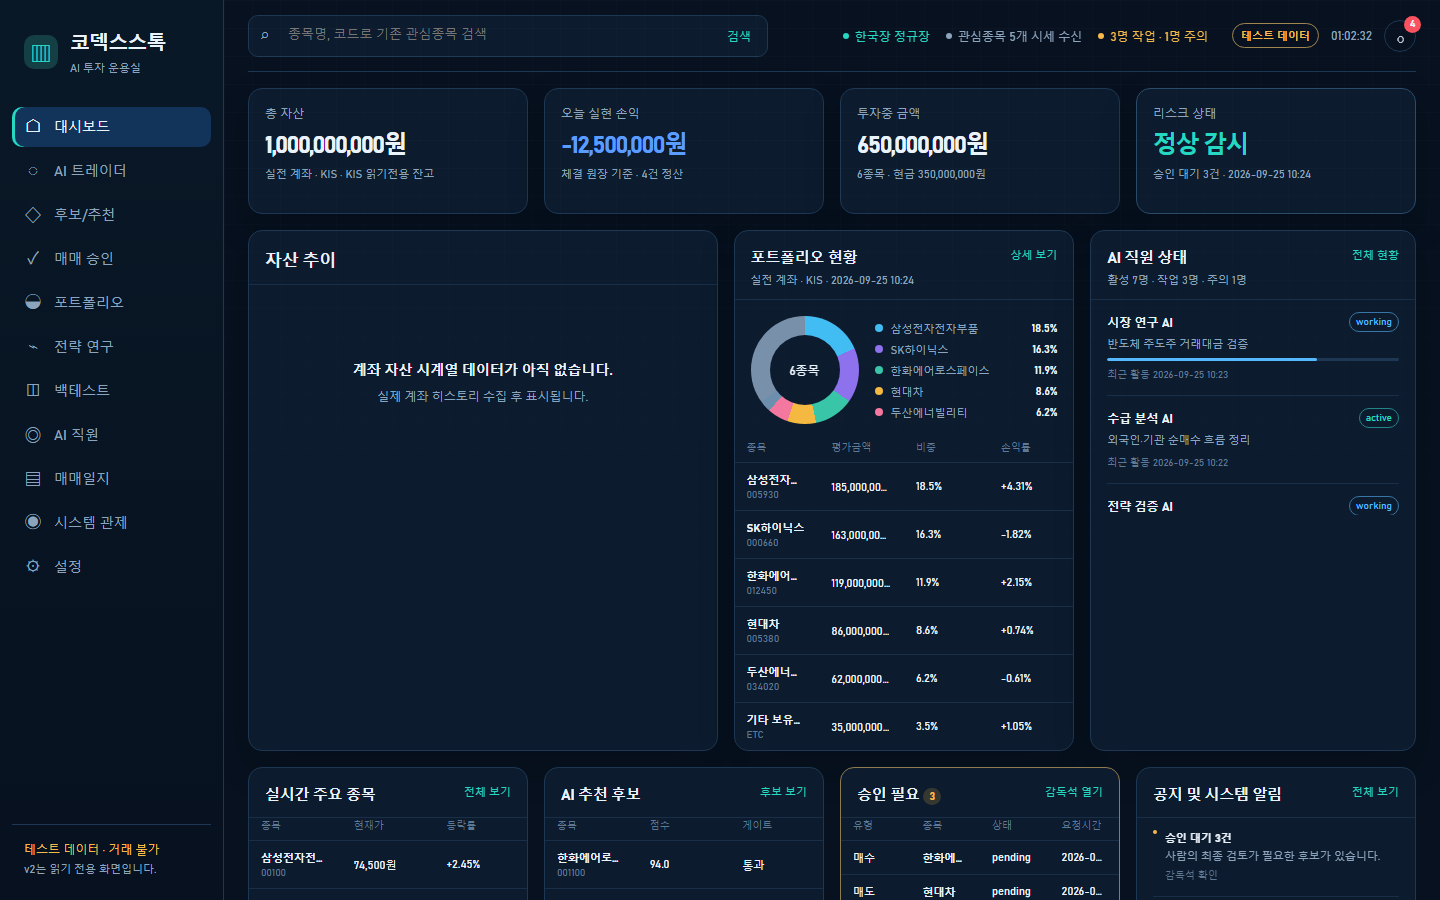
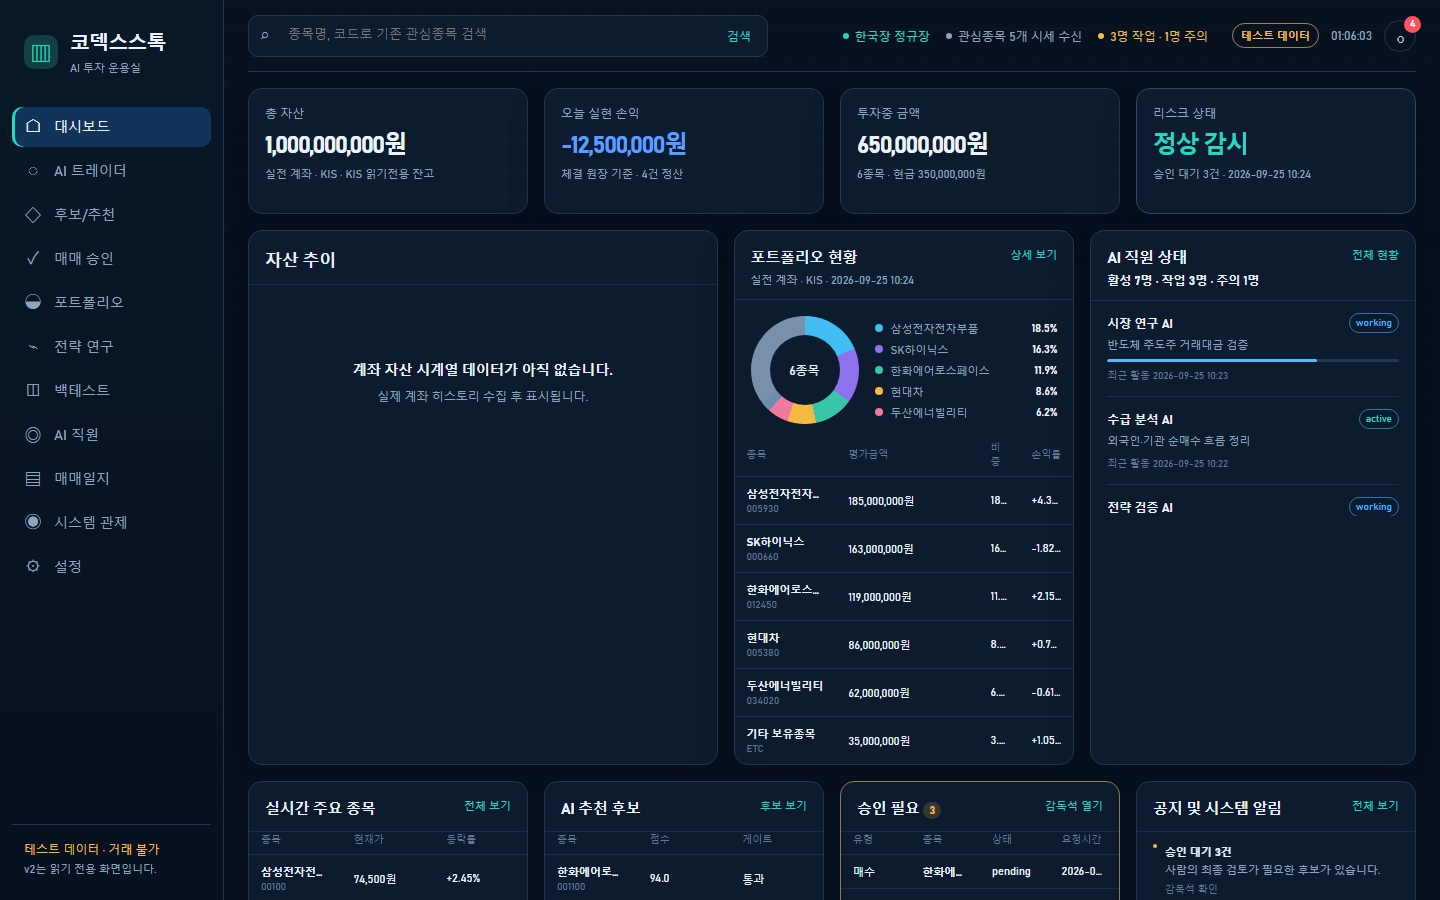
Harden dashboard visual fixture QA

diff --git a/app/web/ui-v2/dashboard.css b/app/web/ui-v2/dashboard.css
@@ -54,6 +54,7 @@ body[data-ui-v2="true"] *, body[data-ui-v2="true"] *::before, body[data-ui-v2="t
 .v2-section-head h1, .v2-section-head h2 { margin: 0; color: var(--v2-text); font-size: 15px; letter-spacing: -0.02em; }
 .v2-section-head h1 { font-size: 17px; }
 .v2-section-head p { margin: var(--v2-space-1) 0 0; color: var(--v2-muted); font-size: 11px; }
+.v2-staff-card [data-v2="staffMeta"] { color: var(--v2-text); font-size: 12px; font-weight: 650; }
 .v2-link { padding: 0; font-size: 11px; white-space: nowrap; }
 .v2-link:hover, .v2-link:focus-visible { color: var(--v2-text); outline: none; text-decoration: underline; }
 
@@ -77,6 +78,10 @@ body[data-ui-v2="true"] *, body[data-ui-v2="true"] *::before, body[data-ui-v2="t
 .v2-table th { padding: 0 var(--v2-space-3) var(--v2-space-2); color: var(--v2-subtle); text-align: left; font-size: 10px; font-weight: 500; }
 .v2-table td { padding: 9px var(--v2-space-3); border-top: 1px solid color-mix(in srgb, var(--v2-border) 72%, transparent); color: var(--v2-text); font-size: 11px; overflow: hidden; text-overflow: ellipsis; white-space: nowrap; }
 .v2-table td:first-child { width: 40%; }
+.v2-portfolio-table th:nth-child(1), .v2-portfolio-table td:nth-child(1) { width: 33%; }
+.v2-portfolio-table th:nth-child(2), .v2-portfolio-table td:nth-child(2) { width: 36%; }
+.v2-portfolio-table th:nth-child(3), .v2-portfolio-table td:nth-child(3) { width: 14%; }
+.v2-portfolio-table th:nth-child(4), .v2-portfolio-table td:nth-child(4) { width: 17%; }
 .v2-table td strong, .v2-table td small { display: block; overflow: hidden; text-overflow: ellipsis; }
 .v2-table td small { margin-top: 2px; color: var(--v2-subtle); font-size: 10px; }
 .v2-empty-cell { color: var(--v2-muted) !important; text-align: center; white-space: normal !important; }
@@ -110,5 +115,6 @@ body[data-ui-v2="true"] *, body[data-ui-v2="true"] *::before, body[data-ui-v2="t
 .v2-alert strong { display: block; color: var(--v2-text); font-size: 11px; }.v2-alert p { margin: 4px 0; color: var(--v2-muted); font-size: 11px; line-height: 1.38; }.v2-alert small { color: var(--v2-subtle); font-size: 10px; }
 
 @media (max-width: 1320px) { .v2-operations-grid { grid-template-columns: repeat(3, minmax(0, 1fr)); } .v2-header-status { gap: var(--v2-space-3); } }
+@media (max-width: 1500px) and (min-width: 1181px) { .v2-portfolio-table th:nth-child(1), .v2-portfolio-table td:nth-child(1) { width: 30%; }.v2-portfolio-table th:nth-child(2), .v2-portfolio-table td:nth-child(2) { width: 42%; }.v2-portfolio-table th:nth-child(3), .v2-portfolio-table td:nth-child(3) { width: 12%; }.v2-portfolio-table th:nth-child(4), .v2-portfolio-table td:nth-child(4) { width: 16%; } }
 @media (max-width: 1180px) { .v2-shell { grid-template-columns: minmax(0, 1fr); }.v2-sidebar { min-width: 0; position: static; height: auto; padding: var(--v2-space-3); border-right: 0; border-bottom: 1px solid var(--v2-border); }.v2-brand, .v2-sidebar-foot { display: none; }.v2-nav { display: flex; min-width: 0; width: 100%; max-width: 100%; overflow-x: auto; }.v2-nav button { width: auto; flex: 0 0 auto; }.v2-main { padding: 0 var(--v2-space-4) var(--v2-space-5); }.v2-topbar { grid-template-columns: minmax(260px, 1fr) auto; }.v2-header-status { display: none; }.v2-kpis { grid-template-columns: repeat(2, minmax(0, 1fr)); }.v2-primary-grid { grid-template-columns: minmax(0, 1fr); }.v2-staff-card { grid-column: auto; } }
 @media (max-width: 720px) { .v2-main { padding: 0 var(--v2-space-3) var(--v2-space-4); }.v2-topbar { grid-template-columns: 1fr auto; gap: var(--v2-space-2); }.v2-search button { display: none; }.v2-kpis, .v2-operations-grid, .v2-staff-list { grid-template-columns: 1fr; }.v2-kpi { min-height: 106px; }.v2-allocation { grid-template-columns: 92px minmax(0, 1fr); }.v2-donut { width: 92px; }.v2-donut::before { width: 60px; }.v2-table-scroll { overflow-x: auto; }.v2-table { min-width: 300px; } }

diff --git a/app/web/ui-v2/dashboard.js b/app/web/ui-v2/dashboard.js
@@ -44,7 +44,7 @@
       </aside>
       <main class="v2-main">
         <header class="v2-topbar">
-          <form class="v2-search" id="v2SearchForm" role="search"><span aria-hidden="true">${ICONS.search}</span><input id="v2SearchInput" autocomplete="off" placeholder="종목명, 코드로 기존 관심종목 검색" /><button type="submit">검색</button></form>
+          <form class="v2-search" id="v2SearchForm" role="search"><span aria-hidden="true">${ICONS.search}</span><input id="v2SearchInput" aria-label="종목명 또는 코드 검색" autocomplete="off" placeholder="종목명, 코드로 기존 관심종목 검색" /><button type="submit">검색</button></form>
           <div class="v2-header-status"><div data-v2="marketState" class="v2-header-item">시장 상태 조회 중</div><div data-v2="marketSummary" class="v2-header-item muted">시장 요약 대기</div><div data-v2="aiState" class="v2-header-item">AI 상태 조회 중</div></div>
           <div class="v2-header-tools"><span class="v2-fixture-badge" data-v2="fixtureBadge" hidden>테스트 데이터</span><time data-v2="clock">--:--:--</time><button type="button" class="v2-icon-button" data-v2-page="settings" aria-label="알림"><span aria-hidden="true">${ICONS.bell}</span><b data-v2="alertCount" hidden>0</b></button></div>
         </header>
@@ -56,7 +56,7 @@
         </section>
         <section class="v2-grid v2-primary-grid">
           <article class="v2-card v2-asset-card"><div class="v2-section-head"><div><h1>자산 추이</h1></div></div><div class="v2-empty-chart"><strong>계좌 자산 시계열 데이터가 아직 없습니다.</strong><span>실제 계좌 히스토리 수집 후 표시됩니다.</span></div></article>
-          <article class="v2-card v2-portfolio-card"><div class="v2-section-head"><div><h2>포트폴리오 현황</h2><p data-v2="portfolioMeta">계좌 데이터 대기</p></div><button class="v2-link" type="button" data-v2-page="trading">상세 보기</button></div><div class="v2-allocation"><div class="v2-donut" data-v2="donut"><span data-v2="positionCount">-</span></div><div class="v2-legend" data-v2="portfolioLegend"></div></div><div class="v2-table-scroll"><table class="v2-table"><thead><tr><th>종목</th><th>평가금액</th><th>비중</th><th>손익률</th></tr></thead><tbody data-v2="portfolioRows"></tbody></table></div></article>
+          <article class="v2-card v2-portfolio-card"><div class="v2-section-head"><div><h2>포트폴리오 현황</h2><p data-v2="portfolioMeta">계좌 데이터 대기</p></div><button class="v2-link" type="button" data-v2-page="trading">상세 보기</button></div><div class="v2-allocation"><div class="v2-donut" data-v2="donut"><span data-v2="positionCount">-</span></div><div class="v2-legend" data-v2="portfolioLegend"></div></div><div class="v2-table-scroll"><table class="v2-table v2-portfolio-table"><thead><tr><th>종목</th><th>평가금액</th><th>비중</th><th>손익률</th></tr></thead><tbody data-v2="portfolioRows"></tbody></table></div></article>
           <article class="v2-card v2-staff-card"><div class="v2-section-head"><div><h2>AI 직원 상태</h2><p data-v2="staffMeta">직원 원장 대기</p></div><button class="v2-link" type="button" data-v2-page="aiTrader">전체 현황</button></div><div class="v2-staff-list" data-v2="staffRows"></div></article>
         </section>
         <section class="v2-grid v2-operations-grid">

diff --git a/app/web/ui-v2/visual-fixture.js b/app/web/ui-v2/visual-fixture.js
@@ -2,7 +2,8 @@
   "use strict";
 
   const params = new URLSearchParams(global.location.search);
-  const enabled = params.get("ui") === "v2" && params.get("fixture") === "visual";
+  const localHost = ["localhost", "127.0.0.1", "::1"].includes(global.location.hostname);
+  const enabled = localHost && params.get("ui") === "v2" && params.get("fixture") === "visual";
   const positions = [
     ["삼성전자전자부품", "005930", 185000000, 4.31], ["SK하이닉스", "000660", 163000000, -1.82],
     ["한화에어로스페이스", "012450", 119000000, 2.15], ["현대차", "005380", 86000000, 0.74],

diff --git a/tests/test_ui_redesign_v2_contract.py b/tests/test_ui_redesign_v2_contract.py
@@ -72,21 +72,23 @@ class UiRedesignV2ContractTests(unittest.TestCase):
     def test_1440_keeps_three_primary_columns_and_four_operational_cards(self):
         styles = (WEB_ROOT / "ui-v2" / "dashboard.css").read_text(encoding="utf-8")
 
-        self.assertNotIn("@media (max-width: 1500px)", styles)
         self.assertIn(".v2-primary-grid { grid-template-columns: minmax(380px, 1.24fr)", styles)
         self.assertIn(".v2-operations-grid { grid-template-columns: repeat(4, minmax(0, 1fr))", styles)
+        self.assertNotIn(".v2-staff-card { grid-column: 1 / -1; }", styles)
 
     def test_visual_fixture_is_explicit_and_read_only(self):
         fixture = (WEB_ROOT / "ui-v2" / "visual-fixture.js").read_text(encoding="utf-8")
         source = (WEB_ROOT / "ui-v2" / "dashboard.js").read_text(encoding="utf-8")
 
-        self.assertIn('params.get("ui") === "v2" && params.get("fixture") === "visual"', fixture)
+        self.assertIn('localHost && params.get("ui") === "v2" && params.get("fixture") === "visual"', fixture)
+        self.assertIn('["localhost", "127.0.0.1", "::1"]', fixture)
         self.assertNotIn("fetch(", fixture)
         self.assertNotIn("POST", fixture)
         self.assertNotIn("/api/", fixture)
         self.assertIn("테스트 데이터", source)
         self.assertIn("테스트 데이터 · 거래 불가", source)
         self.assertIn("CodexStockUiV2VisualFixture?.get?.()", source)
+        self.assertIn('aria-label="종목명 또는 코드 검색"', source)
 
     def test_v2_has_tokens_and_dashboard_only_scope(self):
         tokens = (WEB_ROOT / "ui-v2" / "tokens.css").read_text(encoding="utf-8")
